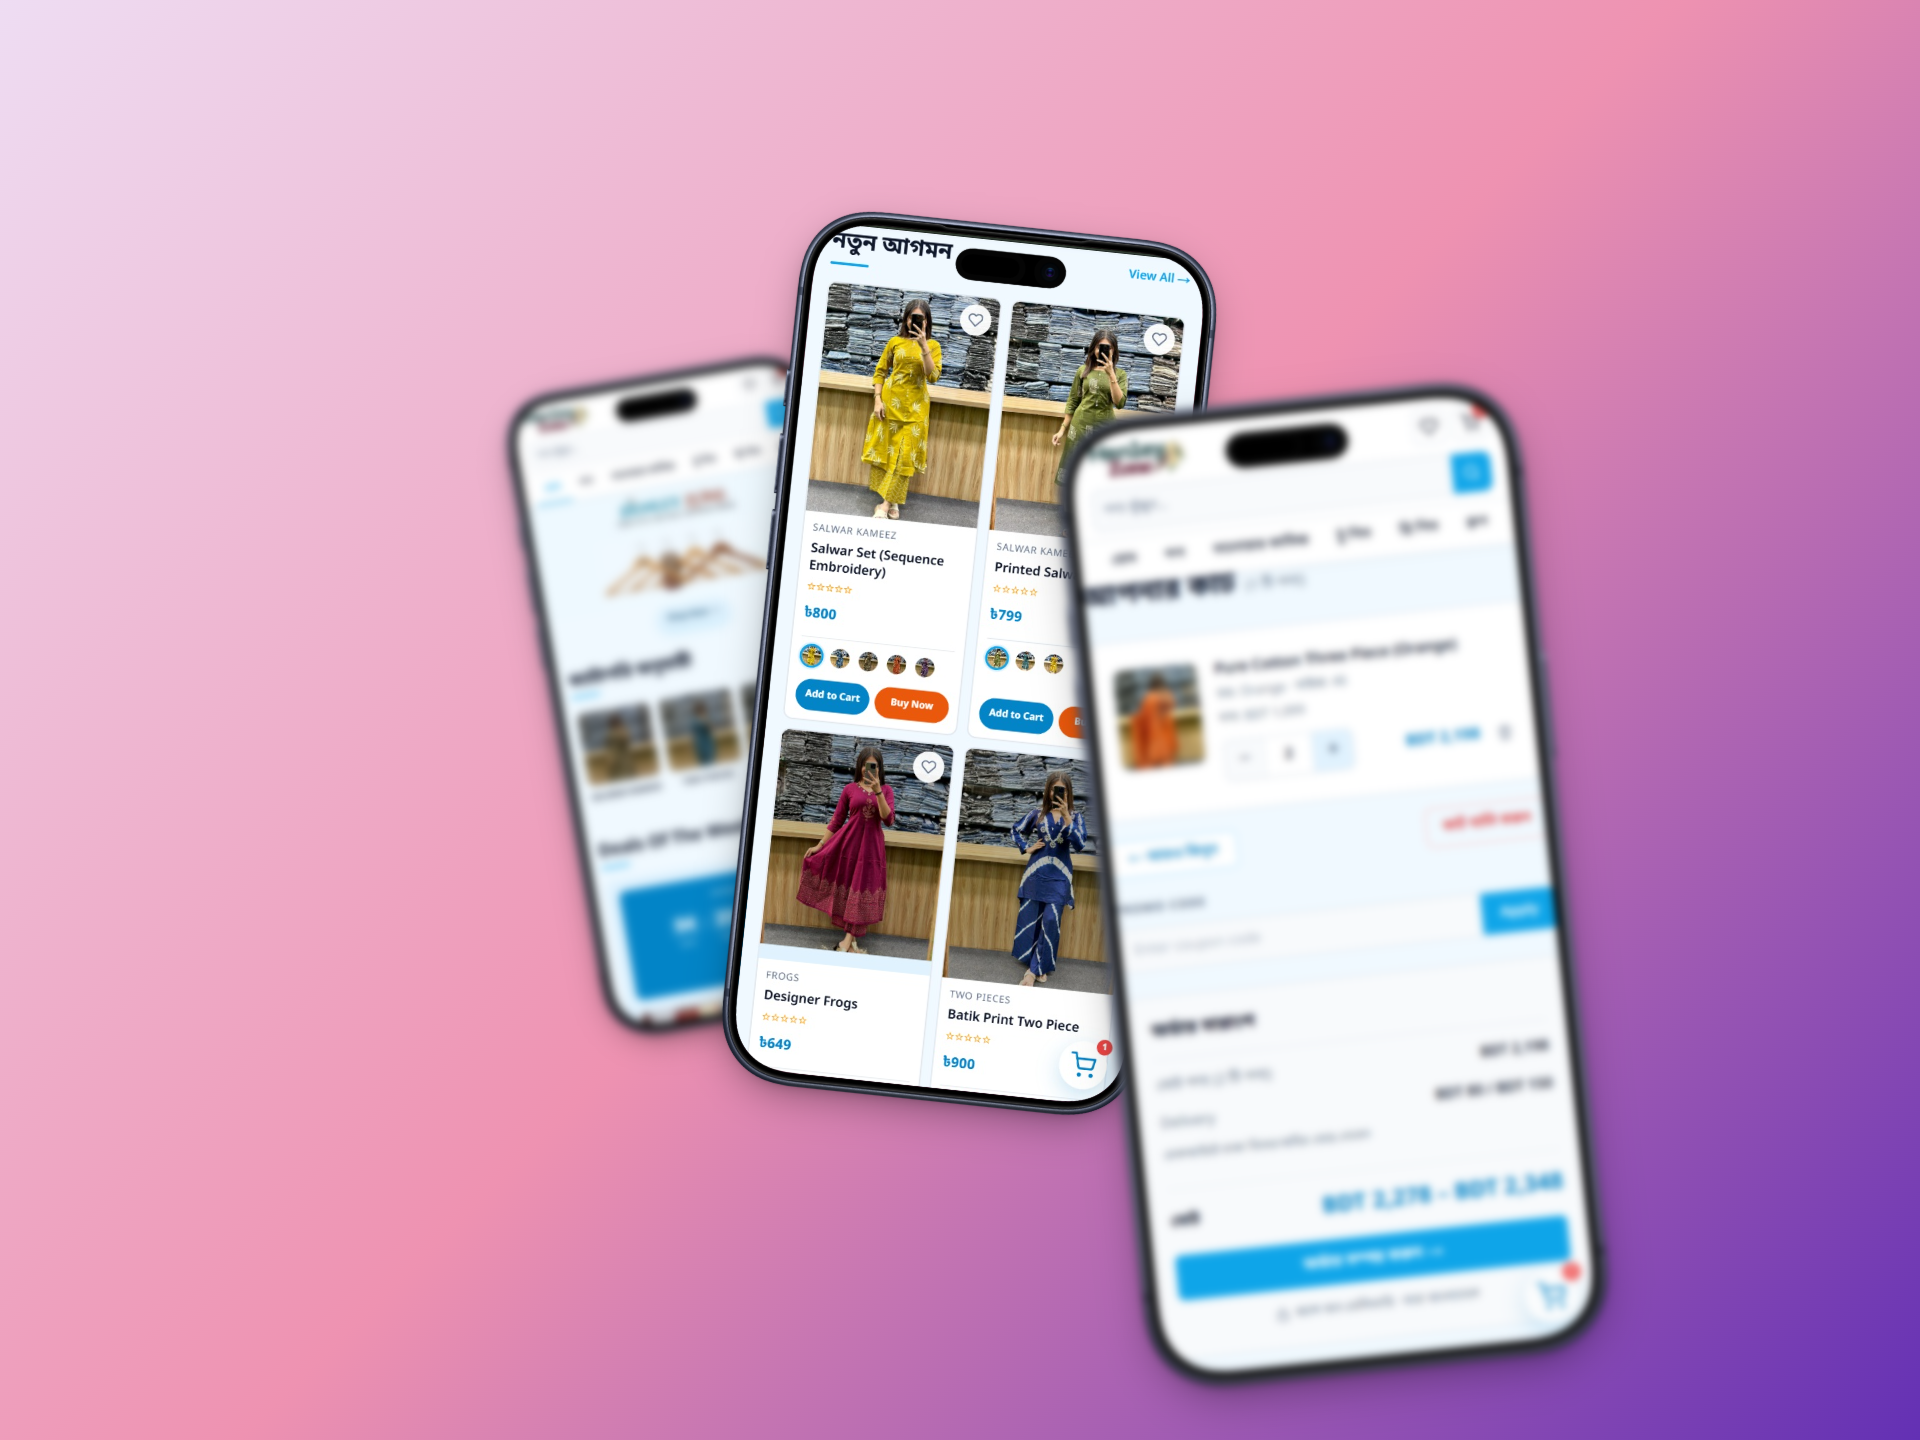
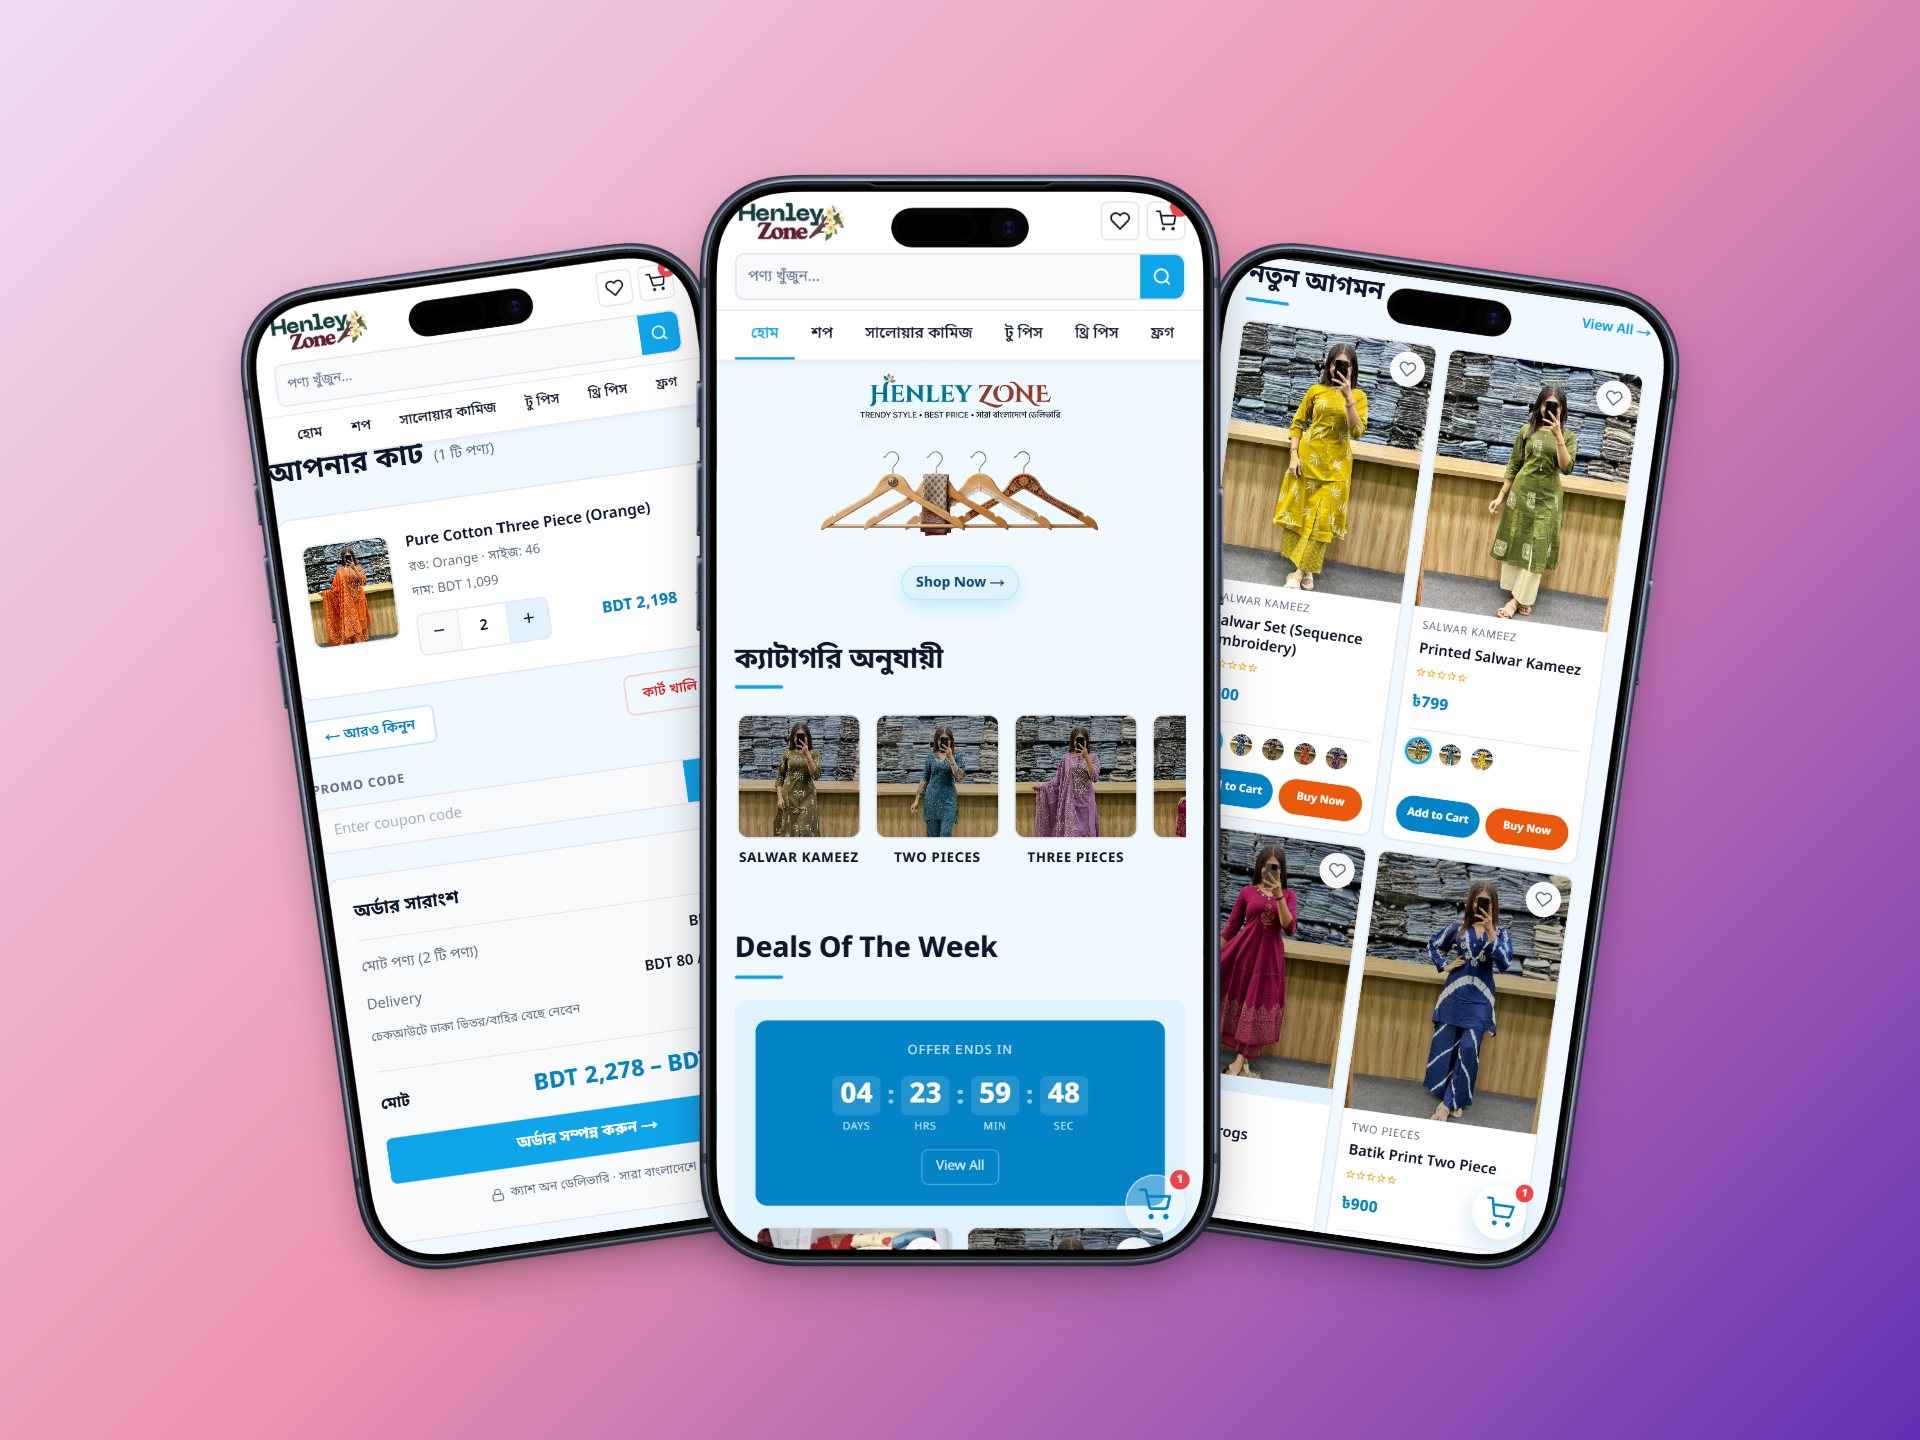
fix(mockup): use updated henley-mockup.png without transparency gradient mask

diff --git a/app/page.tsx b/app/page.tsx
@@ -176,14 +176,7 @@ export default function Home() {
                 {/* Mobile Card 3 — Henley e-commerce · Performance badge (front center) */}
                 <div
                   className="absolute w-[72%] rounded-2xl overflow-hidden shadow-[0_20px_40px_-8px_rgba(0,0,0,0.2)] border border-gray-100/80"
-                  style={{
-                    bottom: '2%',
-                    left: '50%',
-                    transform: 'translateX(-50%) rotate(-1deg)',
-                    zIndex: 20,
-                    maskImage: 'linear-gradient(to right, rgba(0,0,0,1) 0%, rgba(0,0,0,1) 70%, rgba(0,0,0,0.25) 100%)',
-                    WebkitMaskImage: 'linear-gradient(to right, rgba(0,0,0,1) 0%, rgba(0,0,0,1) 70%, rgba(0,0,0,0.25) 100%)'
-                  }}
+                  style={{ bottom: '2%', left: '50%', transform: 'translateX(-50%) rotate(-1deg)', zIndex: 20 }}
                 >
                   <Image
                     src="/henley-mockup.png"